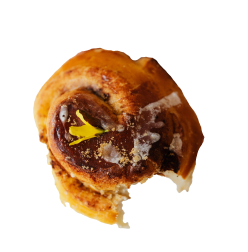
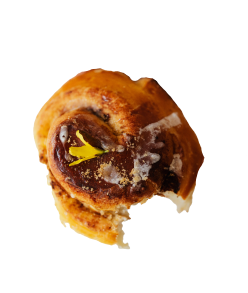
push

Changed region(s): [[0.1411, 0.1667, 0.8185, 0.9167], [0.7621, 0.4167, 0.8185, 0.5], [0.8185, 0.5278, 0.8468, 0.5556]]

diff --git a/chrisolynsbakery/style.css b/chrisolynsbakery/style.css
@@ -162,8 +162,8 @@ body {
     justify-content: center;
   }
   .sweets-gallery .card img {
-    display: flex;
-    align-items: baseline;
+    width: auto;
+    align-items: flex-end;
     justify-content: baseline;
     z-index: 1;
   }
@@ -185,8 +185,9 @@ body {
     margin: auto;
     justify-content: baseline;
     display: flex-end;
+    padding: -200px;
   }
-  
+
 .pie {
     width: 100%;
     position: relative;

diff --git a/chrisolynsbakery/index.html b/chrisolynsbakery/index.html
@@ -37,7 +37,7 @@
   <section class="sweets-section">
         <article class="sweets-gallery">
       <div class="card">
-        <img class="donut" src="images/donut.png" alt="donut">
+        <img class="product-img" src="images/donut.png" alt="donut">
         <a href="#" class="button">
           <span>add to order</span>
           <img class="add" src="images/add.png">
